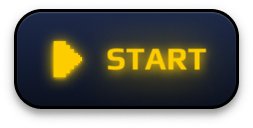
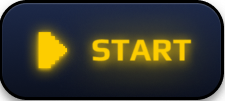
Add start button active action

diff --git a/flick-the-bean/styles/_components.scss b/flick-the-bean/styles/_components.scss
@@ -43,10 +43,16 @@
 		text-shadow: 0px 2px 44px #FFFFFF;
 	}	
 
-	img {
-		width: unset !important;
-		height: unset !important;
+	.start_button {
+		background: url('../public/static/img/start_button.png') no-repeat;
+		width: 225px;
+		height: 101px;
 		cursor: pointer;
+		margin: 20px 0px;
+
+		&:active {
+			background: url('../public/static/img/start_button_active.png') no-repeat;
+		}
 	}
 }
 

diff --git a/flick-the-bean/src/components/home-content/homeContent.tsx b/flick-the-bean/src/components/home-content/homeContent.tsx
@@ -47,7 +47,7 @@ const HomeContent:FC = () => {
           <span>
             #1 place to <br /> bean flick and <br /> coin flip
           </span>
-          <img src="/static/img/start_button.png" alt="start_button" onClick={handleModal}/>
+          <div className="start_button" onClick={handleModal}></div>
           <RecentFlickersTable tableData={data} />
         </section>
       </div>
